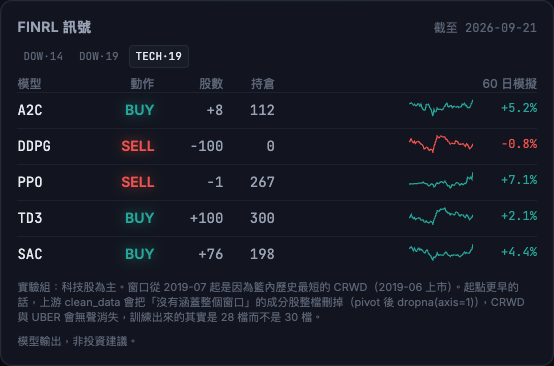
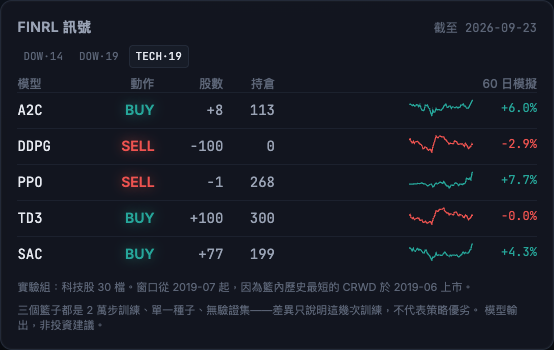
Keep basket notes to one line in the UI; drop incomplete sessions, not tickers
The note under the FinRL table was carrying the clean_data/dropna reasoning,
which belongs in README.md and CLAUDE.md, not on the dashboard. baskets.json
notes are now one line each, with a constant line stating the training limits
(20k steps, one seed, no validation split) that applies to every basket.

While verifying, the endpoint 500'd: yfinance published 2026-09-22 with only
11 of the DOW 30, clean_data dropped the other 19 tickers, and the 111-wide
observation no longer fit the models. build_window now drops sessions that are
missing any member (or carry a null close) instead, and returns 503 if the
basket still comes up short.

diff --git a/ui/src/i18n.ts b/ui/src/i18n.ts
@@ -12,6 +12,7 @@ const en = {
     position: 'Position',
     pnl60: '60d sim',
     basket: 'Model basket',
+    basketCaveat: 'Every basket: 20k training steps, one seed, no validation split — differences describe these runs, not the strategies.',
     pnl60Title: "Simulated portfolio of the whole basket over the last 60 sessions, from $1M cash (same curve for every ticker of that agent)",
     chat: 'FinGPT Agent',
     chatHint: 'Ask about news, fundamentals, or "what does FinGPT say?"',
@@ -145,6 +146,7 @@ const zh: Strings = {
     position: '持倉',
     pnl60: '60 日模擬',
     basket: '模型籃',
+    basketCaveat: '三個籃子都是 2 萬步訓練、單一種子、無驗證集——差異只說明這幾次訓練，不代表策略優劣。',
     pnl60Title: '該 agent 對整個籃子的 60 日模擬（從 100 萬現金起算；同一 agent 每檔顯示同一條曲線）',
     chat: 'FinGPT 助理',
     chatHint: '問新聞、基本面，或「FinGPT 怎麼說？」',

diff --git a/ui/src/components/FinrlSignals.tsx b/ui/src/components/FinrlSignals.tsx
@@ -59,7 +59,7 @@ export default function FinrlSignals({ signals, error, lang, s }: { signals: Sig
         </table>
       )}
       {shown && <p className="mt-2 text-[11px] leading-snug text-ink-3">{lang === 'zh' ? shown.note_zh : shown.note_en}</p>}
-      <p className="mt-2 text-[11px] text-ink-3">{s.disclaimer}</p>
+      <p className="mt-2 text-[11px] leading-snug text-ink-3">{s.basketCaveat} {s.disclaimer}</p>
     </div>
   )
 }

diff --git a/openbb-backend/widgets/finrl_signal.py b/openbb-backend/widgets/finrl_signal.py
@@ -76,10 +76,26 @@ def last_complete_session():
     return now.date() if now.time() >= MARKET_CLOSE else now.date() - timedelta(days=1)
 
 
+def complete_sessions(df: pd.DataFrame, n_tickers: int) -> pd.DataFrame:
+    """Keep only dates where every basket member has a usable bar.
+
+    yfinance sometimes publishes a session for part of a basket (2026-09-22 had 11 of the DOW 30) or
+    a bar with close: null. FeatureEngineer.clean_data reacts by dropping every *ticker* with a gap,
+    which silently shrinks the basket until the observation no longer fits the model. Dropping the
+    incomplete *session* instead costs one day of the 60-day replay and keeps all 30 columns."""
+    df = df[df["close"].notna()]
+    per_date = df.groupby("date")["tic"].nunique()
+    return df[df["date"].isin(per_date[per_date == n_tickers].index)]
+
+
 def build_window(tickers, as_of: date):
     start = (as_of - timedelta(days=HISTORY_DAYS)).isoformat()
     df = fetch_prices(tickers, start).rename(columns={"symbol": "tic"})
     df = df[df["date"] <= as_of.isoformat()]
+    before = df["date"].nunique()
+    df = complete_sessions(df, len(tickers))
+    if (dropped := before - df["date"].nunique()):
+        print(f"finrl_signal: dropped {dropped} incomplete session(s) before {as_of}")
     df["day"] = pd.to_datetime(df["date"]).dt.dayofweek
     df = df[["date", "open", "high", "low", "close", "volume", "tic", "day"]]
     # use_vix=False: FeatureEngineer.add_vix would call yfinance directly; we take ^VIX from openbb-api instead
@@ -88,6 +104,9 @@ def build_window(tickers, as_of: date):
     vix = fetch_prices(["^VIX"], start)[["date", "close"]].rename(columns={"close": "vix"})
     df = df.merge(vix, on="date")
 
+    if (got := df["tic"].nunique()) != len(tickers):
+        raise HTTPException(503, f"only {got} of {len(tickers)} basket tickers survived preprocessing; "
+                                 f"the price data is incomplete right now")
     dates = sorted(df["date"].unique())
     window = df[df["date"] >= dates[-EPISODE_DAYS]].sort_values(["date", "tic"]).reset_index(drop=True)
     window.index = window["date"].factorize()[0]

diff --git a/openbb-backend/tests/test_finrl_signal.py b/openbb-backend/tests/test_finrl_signal.py
@@ -2,9 +2,11 @@
 Importing widgets.finrl_signal loads the five trained agents from finrl-work/ (a few seconds)."""
 from datetime import datetime, date
 
+import pandas as pd
 import pytest
 
 from widgets import finrl_signal
+from widgets.finrl_signal import complete_sessions
 
 
 class _FixedNow:
@@ -38,3 +40,24 @@ def test_baskets_are_configured_and_frozen():
     for b in finrl_signal.BASKETS:
         assert len(b["tickers"]) == len(set(b["tickers"])) == 30
         assert len(b["models"]) == 5
+
+
+def _bars(rows):
+    return pd.DataFrame([{"date": d, "tic": t, "close": c} for d, t, c in rows])
+
+
+def test_complete_sessions_drops_a_partial_day_not_the_tickers():
+    """The 2026-09-22 case: one session carried 11 of 30 tickers, and clean_data would have
+    dropped the other 19 tickers outright, shrinking the observation below the model's."""
+    df = _bars([("2026-09-21", t, 10.0) for t in "ABC"] +
+               [("2026-09-22", "A", 11.0)] +  # partial session
+               [("2026-09-23", t, 12.0) for t in "ABC"])
+    out = complete_sessions(df, 3)
+    assert sorted(out["date"].unique()) == ["2026-09-21", "2026-09-23"]
+    assert sorted(out["tic"].unique()) == ["A", "B", "C"]
+
+
+def test_complete_sessions_treats_a_null_close_as_missing():
+    df = _bars([("2026-09-21", t, 10.0) for t in "AB"] +
+               [("2026-09-22", "A", 11.0), ("2026-09-22", "B", None)])
+    assert list(complete_sessions(df, 2)["date"].unique()) == ["2026-09-21"]
